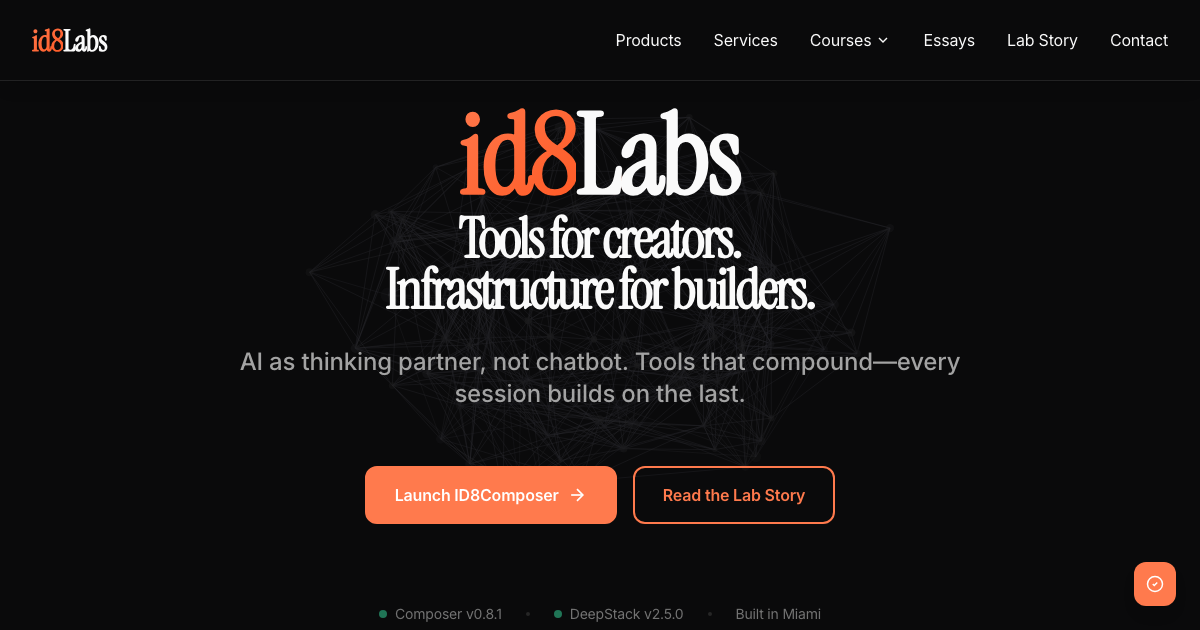
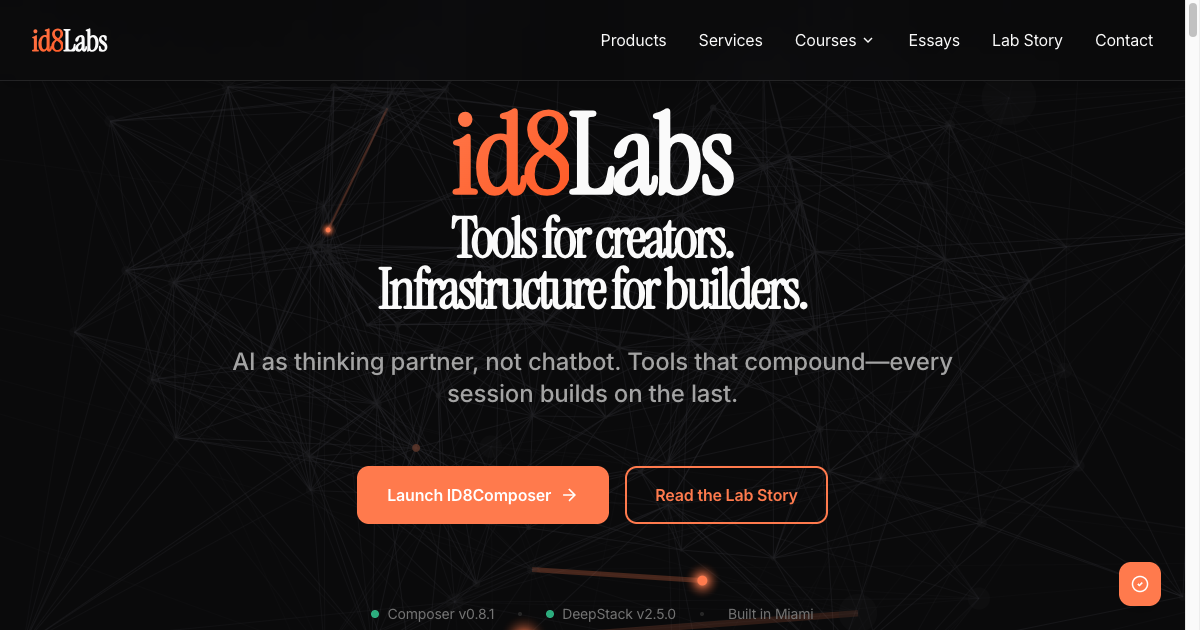
feat: replace dynamic OG images with static screenshot (#26)
- Replace dynamic opengraph-image.tsx with static screenshot from production site
- Remove dynamic twitter-image.tsx (uses same static image)
- Update layout.tsx to explicitly reference /og-image.png with proper metadata
- Static image shows actual hero section with neural network background

The static screenshot better represents the actual site design and ensures
consistent thumbnails across all social media platforms.

🤖 Generated with [Claude Code](https://claude.com/claude-code)

diff --git a/app/layout.tsx b/app/layout.tsx
@@ -57,14 +57,21 @@ export const metadata: Metadata = {
     siteName: 'ID8Labs',
     title: 'ID8Labs - Professional Tools for the AI Era',
     description: 'AI tools for creators and builders. Claude Code training, Composer, DeepStack, and more.',
-    // Images are auto-generated from app/opengraph-image.tsx
+    images: [
+      {
+        url: '/og-image.png',
+        width: 1200,
+        height: 630,
+        alt: 'ID8Labs - Tools for creators. Infrastructure for builders.',
+      },
+    ],
   },
   twitter: {
     card: 'summary_large_image',
     title: 'ID8Labs - Professional Tools for the AI Era',
     description: 'AI tools for creators and builders. Claude Code training, Composer, DeepStack, and more.',
     creator: '@eddiebe147',
-    // Images are auto-generated from app/twitter-image.tsx
+    images: ['/og-image.png'],
   },
   robots: {
     index: true,
